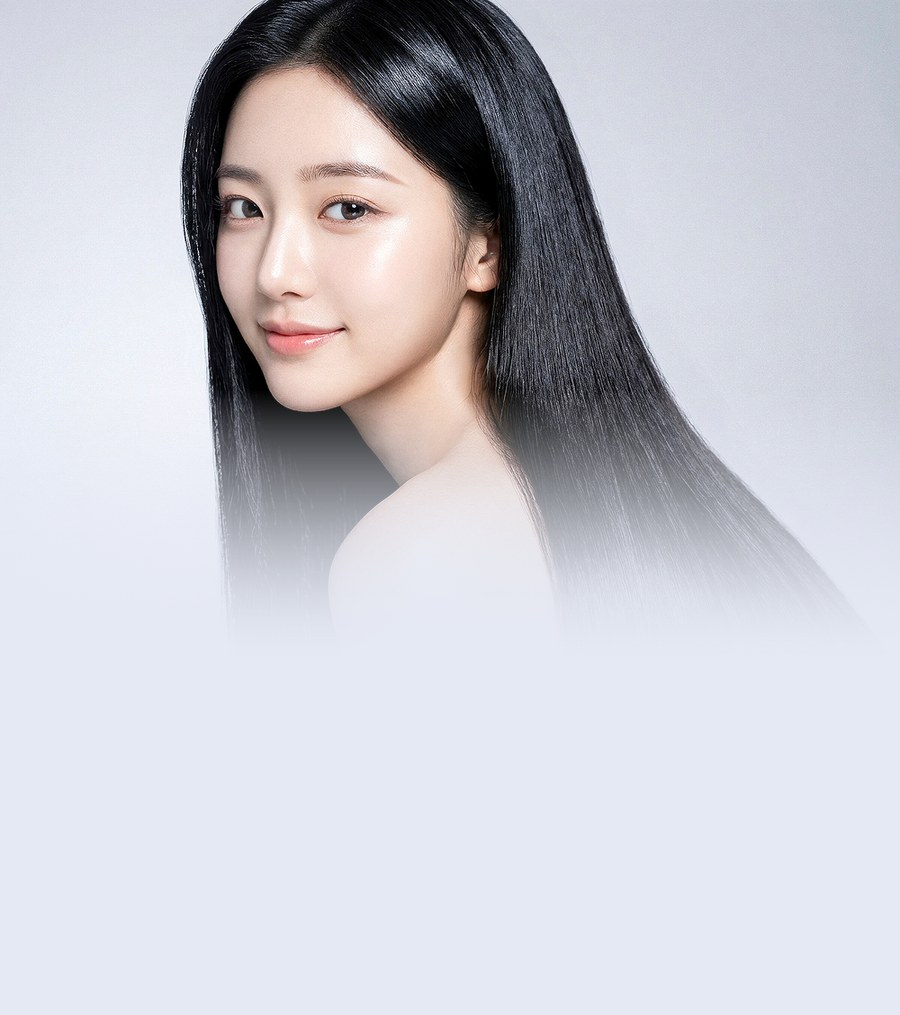
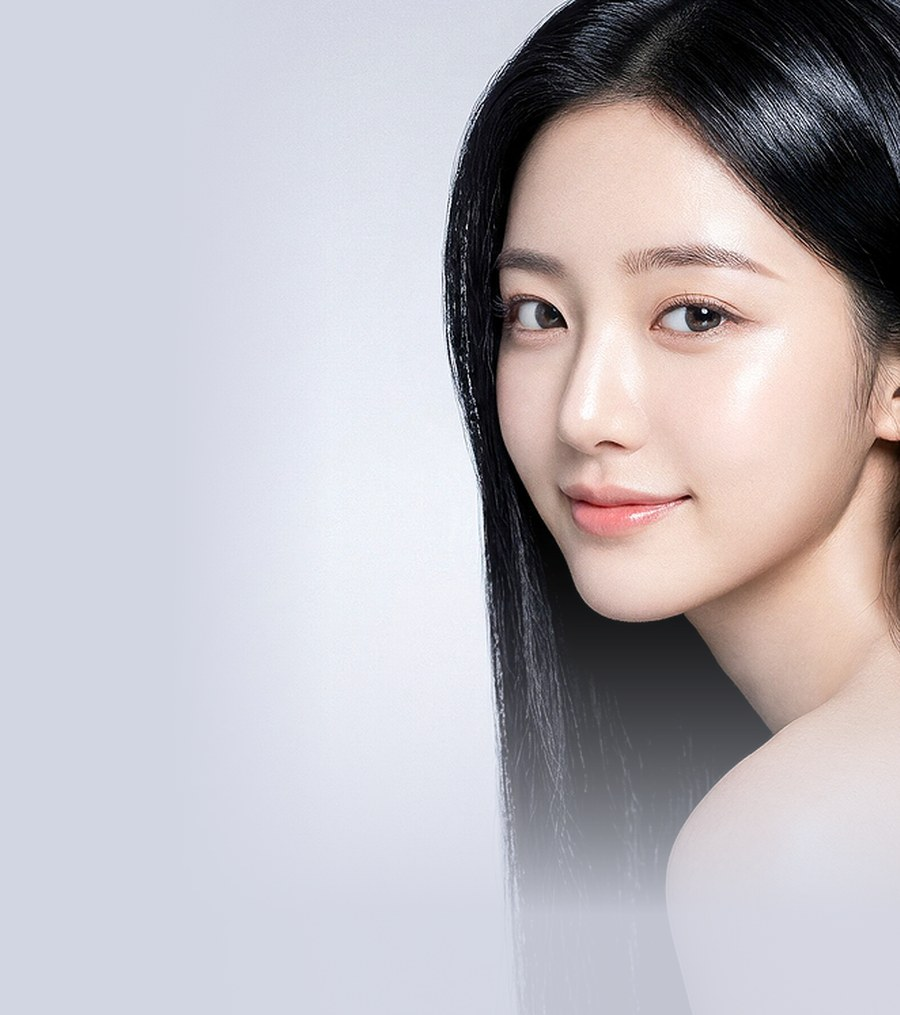
Claude: 울쎄라 일본어판 올리디아 디자인 미리보기 (픽셀 추가)

diff --git a/jp-ulthera/index.html b/jp-ulthera/index.html
@@ -240,12 +240,21 @@ body{font-family:"Noto Sans JP",sans-serif;word-break:normal;line-break:strict;o
 .spec span{background:var(--ice);border-radius:8px;padding:12px 8px;font-size:12px;font-weight:700;color:var(--sub);line-height:1.4}
 .spec b{display:block;font-size:19px;font-weight:900;color:var(--blue);letter-spacing:-.02em}
 .atag{display:inline-block;margin:16px 0 34px;background:var(--navy);color:#fff;font-size:13px;font-weight:700;letter-spacing:.06em;padding:8px 16px;border-radius:30px}
+
+/* 11/26 표지: 사진 크게, 글자 작게 */
+.copy h1{font-size:clamp(30px,9vw,44px)}
+.copy h1.nm{font-size:clamp(24px,7vw,34px)}
+.copy .lb{font-size:clamp(12px,3.4vw,16px)}
+.copy .pr .u{font-size:clamp(15px,4.4vw,21px)}
+.copy .pr .p{font-size:clamp(40px,12vw,58px)}
+.copy .sub{font-size:12px}
+.copy{bottom:3%}
 </style></head><body>
 <div class="page">
 
 <!-- ① 표지 -->
 <section>
-  <div class="hero" id="hero"><img src="img/hero.jpg?v=11261700" alt="">
+  <div class="hero" id="hero"><img src="img/hero.jpg?v=11262100" alt="">
     <div class="copy">
       <h1><span class="g">切らずに</span><br>引き上げる</h1>
       <span class="lb">ウルセラ特価・ソウル江南</span>
@@ -272,7 +281,7 @@ body{font-family:"Noto Sans JP",sans-serif;word-break:normal;line-break:strict;o
   <h2><span class="gt">ウルセラ リフト</span></h2>
   <div class="orb">
     <div class="ring"></div>
-    <div class="c"><img src="img/c.jpg?v=11261700" alt=""></div>
+    <div class="c"><img src="img/c.jpg?v=11262100" alt=""></div>
     <div class="lb l1">フェイスライン<br>引き締め<small>jawline</small></div>
     <div class="lb l2">頬のたるみ<br>ケア<small>cheek lift</small></div>
     <div class="lb l3">肌のハリ・<br>弾力アップ<small>elasticity</small></div>
@@ -332,7 +341,7 @@ body{font-family:"Noto Sans JP",sans-serif;word-break:normal;line-break:strict;o
 <section class="rec">
   <div class="head"><small>RECOMMEND</small><h2><span class="gt">こんな方に</span><span style="color:var(--blue)">おすすめ</span></h2></div>
   <div class="body">
-    <img src="img/rec.jpg?v=11261700" alt="">
+    <img src="img/rec.jpg?v=11262100" alt="">
     <ul>
       <li><b>フェイスラインが</b><br>ぼやけてきた方</li>
       <li><b>頬のたるみ</b>で<br>疲れて見える方</li>
@@ -362,7 +371,7 @@ body{font-family:"Noto Sans JP",sans-serif;word-break:normal;line-break:strict;o
 <section class="way">
   <span class="hand">アクセス</span>
   <h2>新論峴駅 7番出口 徒歩3分</h2>
-  <div class="map"><img src="img/map.jpg?v=11261700" alt="地図：新論峴駅 7番出口 徒歩3分"></div>
+  <div class="map"><img src="img/map.jpg?v=11262100" alt="地図：新論峴駅 7番出口 徒歩3分"></div>
   <dl class="rows">
     <div><dt>地下鉄</dt><dd>9号線 新論峴駅 7番出口から徒歩3分</dd></div>
     <div><dt>徒歩</dt><dd>江南駅から徒歩約10分</dd></div>
